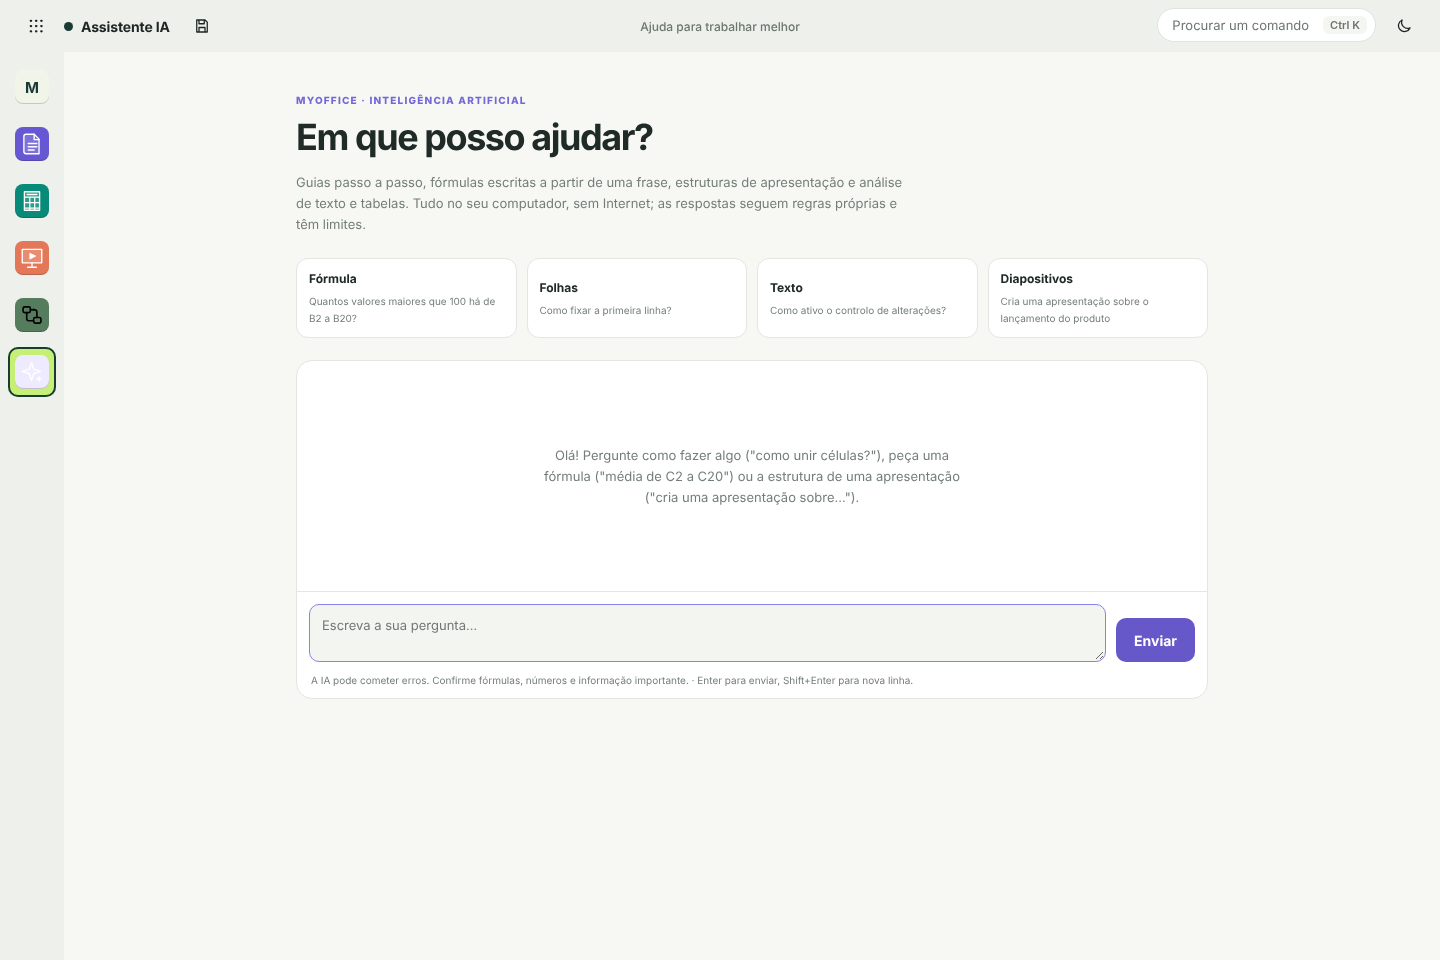
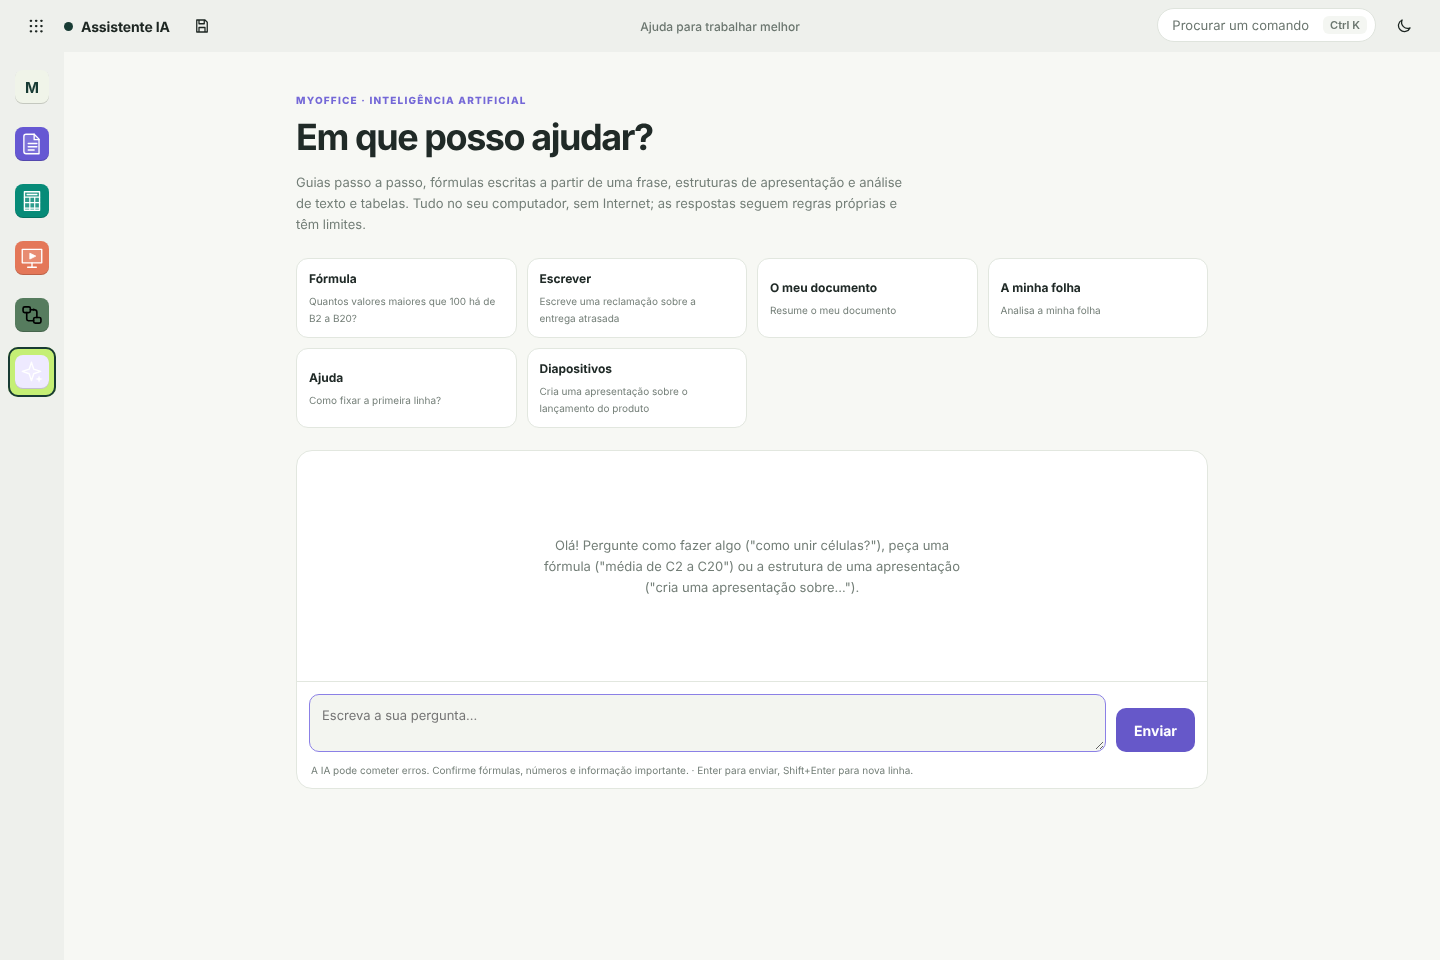
Assistant: document drafts, follow-up questions, insert actions and context from the open document and sheet
Also fixes a stray control character that broke the follow-up check.

Claude-Session: https://claude.ai/code/session_01JhikhFVXn8gHkb43DhDLf6

diff --git a/src/js/assistant.js b/src/js/assistant.js
@@ -492,10 +492,50 @@
     return null;
   }
 
+  // ---------- Rascunhos de documentos ----------
+
+  // [palavras-chave, título, parágrafos]. {tema} é substituído pelo assunto indicado no pedido.
+  const DRAFTS = [
+    [['reclamacao', 'queixa', 'reclamar'], 'Reclamação', ['[Nome]\n[Morada]\n[Código postal e localidade]', '[Entidade]\n[Morada da entidade]', '[Localidade], [data]', 'Assunto: Reclamação sobre {tema}', 'Exmos. Senhores,', 'Venho por este meio apresentar reclamação sobre {tema}. No dia [data], [descreva o que aconteceu, com factos concretos: o que foi contratado ou comprado, o que correu mal e os contactos já feitos].', 'Esta situação causou-me [prejuízo ou incómodo]. Assim, solicito [o que pretende: reparação, substituição, reembolso ou resposta] no prazo de [15] dias úteis.', 'Junto em anexo [fatura, fotografias ou outros documentos].', 'Com os melhores cumprimentos,', '[Nome]']],
+    [['ferias', 'pedido', 'requerimento', 'solicitar', 'declaracao'], 'Pedido', ['[Nome]\n[Função ou número]', 'Exmo(a). Senhor(a) [Nome e cargo],', 'Assunto: Pedido de {tema}', 'Venho por este meio solicitar {tema}, [indique datas, quantidades ou outros pormenores].', '[Explique brevemente o motivo, se for útil.]', 'Fico disponível para qualquer esclarecimento.', 'Com os melhores cumprimentos,', '[Nome]', '[Localidade], [data]']],
+    [['ata', 'reuniao'], 'Ata de reunião', ['Ata: {tema}', 'Data: [data] · Hora: [início]–[fim] · Local: [local ou videochamada]', 'Presentes: [nomes]\nAusentes: [nomes]', 'Ordem de trabalhos:\n1. [Ponto 1]\n2. [Ponto 2]\n3. Outros assuntos', 'Resumo da discussão:\n[Pontos principais de cada tema, em frases curtas.]', 'Decisões:\n• [Decisão] — responsável: [nome], prazo: [data]', 'Próxima reunião: [data e hora]']],
+    [['convite', 'convidar', 'evento', 'festa'], 'Convite', ['Convite: {tema}', 'Temos o prazer de o(a) convidar para {tema}, que terá lugar no dia [data], às [hora], em [local].', '[Uma ou duas frases sobre o programa ou o motivo do evento.]', 'Agradecemos a confirmação da presença até [data], através de [contacto].', 'Contamos consigo!', '[Nome ou organização]']],
+    [['agradecimento', 'agradecer', 'obrigado'], 'Agradecimento', ['Caro(a) [Nome],', 'Quero agradecer-lhe {tema}. [Diga concretamente o que fez a diferença e porquê.]', '[Uma frase sobre o impacto ou sobre o futuro.]', 'Muito obrigado(a),', '[Nome]']],
+    [['email', 'mail', 'mensagem'], 'Email', ['Assunto: {tema}', 'Olá [Nome],', '[Primeira frase: o motivo do email, sobre {tema}.]', '[Pormenores necessários, em dois ou três pontos curtos.]', '[O que precisa da outra pessoa e até quando.]', 'Obrigado(a),\n[Nome]']],
+    [['carta', 'oficio'], 'Carta formal', ['[Nome]\n[Morada]', '[Destinatário]\n[Morada]', '[Localidade], [data]', 'Assunto: {tema}', 'Exmo(a). Senhor(a),', '[Primeiro parágrafo: o motivo da carta, sobre {tema}.]', '[Segundo parágrafo: os pormenores e os factos relevantes.]', '[Último parágrafo: o que pede ou propõe e como pode ser contactado(a).]', 'Com os melhores cumprimentos,', '[Nome]']],
+    [['relatorio', 'informe'], 'Relatório', ['Relatório: {tema}', 'Resumo\n[A conclusão principal em duas ou três frases.]', 'Contexto\n[Porque foi feito este relatório e que período ou área cobre.]', 'Resultados\n[Dados principais, com números e comparação com o objetivo.]', 'Análise\n[O que explica os resultados.]', 'Recomendações\n[Ações propostas, com responsável e prazo.]']]
+  ].map(([keys, title, paragraphs]) => ({ keys, title, paragraphs }));
+
+  function draftFor(question) {
+    const q = plain(question);
+    if (!/\b(escreve|escrever|redige|redigir|rascunho|modelo|minuta|ajuda-me a escrever|preciso de uma?|faz(?:-me)? uma?|cria(?:-me)? uma?)\b/.test(q)) return null;
+    // O tipo de documento é a palavra-chave que aparece primeiro ("email sobre a reunião" é um email).
+    let draft = null;
+    let at = Infinity;
+    for (const d of DRAFTS) for (const k of d.keys) { const i = q.indexOf(k); if (i >= 0 && i < at) { at = i; draft = d; } }
+    if (!draft) return null;
+    // Assunto: o que vem depois de "sobre"; senão, o que vem depois do tipo de documento.
+    const about = question.match(/\b(?:sobre|acerca de|a pedir)\s+(.+)$/i);
+    const after = plain(question).slice(at).replace(/^\S+/, '');
+    const rest = about ? about[1] : question.slice(question.length - after.length).replace(/^\s*(?:de|da|do|para|ao|à|a|com)\s+/i, '').replace(/^(?:um|uma|o|a|os|as)\s+/i, '');
+    const topic = stripEnd(rest.replace(/[?!…]+$/, '')).slice(0, 120) || '[assunto]';
+    const filled = draft.paragraphs.map((p) => p.replace(/\{tema\}/g, topic));
+    const esc = (t) => t.replace(/&/g, '&amp;').replace(/</g, '&lt;').replace(/>/g, '&gt;');
+    const html = filled.map((p, i) => (i === 0 && /^(Relatório|Ata|Convite):/.test(p) ? `<h1>${esc(p)}</h1>` : `<p>${esc(p).replace(/\n/g, '<br>')}</p>`)).join('');
+    return { answer: `${draft.title} — rascunho pronto a completar (substitua o que está entre [ ]):\n\n${filled.join('\n\n')}`, action: { kind: 'draft', label: 'Inserir no Texto', html } };
+  }
+
   function chat(content, searchDocs) {
     const messages = [...String(content || '').matchAll(/(?:^|\n\n)Utilizador:\s*([\s\S]*?)(?=\n\n(?:Assistente|Utilizador):|$)/g)];
-    const question = (messages.length ? messages[messages.length - 1][1] : content).trim();
+    let question = (messages.length ? messages[messages.length - 1][1] : content).trim();
+    // Pergunta de seguimento ("e a média?"): reaproveita o intervalo da pergunta anterior.
+    const previous = messages.length > 1 ? messages[messages.length - 2][1].trim() : '';
+    if (previous && words(question).length <= 5 && /^(e|agora|e se|e o|e a)\b/i.test(question) && !rangeIn(question) && rangeIn(previous)) {
+      question = `${question} de ${rangeIn(previous)}`;
+    }
     const query = plain(question);
+    const draft = draftFor(question);
+    if (draft) return draft;
     if (/^(ola|bom dia|boa tarde|boa noite|oi|obrigad[oa])\b/.test(query) && words(query).length <= 4) {
       return { answer: /obrigad/.test(query) ? 'De nada! Se precisar de mais alguma coisa, é só perguntar.' : 'Olá! Pergunte-me como fazer algo no MyOffice, peça uma fórmula (por exemplo "soma de B2 a B10") ou a estrutura de uma apresentação.' };
     }
@@ -503,7 +543,7 @@
       const built = buildFormula(question);
       if (built) {
         const where = rangeIn(question) ? '' : ' Substitua o intervalo pelo das suas células.';
-        return { answer: `Fórmula: ${built.formula}\n\nO que faz: ${built.explain}${where}\n\nEscreva-a numa célula de Folhas e carregue em Enter. Os nomes em inglês (SUM, AVERAGE…) também funcionam.` };
+        return { answer: `Fórmula: ${built.formula}\n\nO que faz: ${built.explain}${where}\n\nPode inseri-la na célula ativa das Folhas com o botão abaixo. Os nomes em inglês (SUM, AVERAGE…) também funcionam.`, action: { kind: 'formula', label: 'Inserir na célula ativa', value: built.formula } };
       }
     }
     if (/\b(apresentacao|diapositivos|slides)\b/.test(query)) {

diff --git a/src/js/assistant-app.js b/src/js/assistant-app.js
@@ -7,11 +7,28 @@
   let root, messages, input, sendButton, busy = false;
   const history = [];
 
-  function addMessage(role, text, extra) {
+  // Ações que a resposta pode trazer: inserir uma fórmula nas Folhas ou um rascunho no Texto.
+  function actionButton(action) {
+    const run = () => {
+      if (action.kind === 'formula' && MO.modules.sheets.assist) {
+        MO.showView('sheets');
+        MO.modules.sheets.assist.put(action.value);
+        MO.toast(`Fórmula inserida em ${MO.modules.sheets.assist.activeAddr()}.`);
+      } else if (action.kind === 'draft' && MO.modules.writer.assist) {
+        MO.showView('writer');
+        MO.modules.writer.assist.insert(action.html);
+        MO.toast('Rascunho inserido no Texto.');
+      }
+    };
+    return h('button', { type: 'button', class: 'btn mo-assistant-action', onclick: run }, action.label);
+  }
+
+  function addMessage(role, text, extra, action) {
     if (!messages) return;
     const empty = messages.querySelector('.mo-assistant-empty');
     if (empty) empty.remove();
     const item = h('article', { class: 'mo-assistant-message ' + role }, text);
+    if (action && (action.kind === 'formula' || action.kind === 'draft')) item.append(h('div', { class: 'mo-assistant-actions' }, actionButton(action)));
     if (extra) item.classList.add(extra);
     messages.append(item);
     messages.scrollTop = messages.scrollHeight;
@@ -33,14 +50,25 @@
     setBusy(true);
     try {
       const api = window.api && window.api.ai;
-      const request = { module: 'assistant', task: 'chat', content: history.slice(-6).map((m) => (m.role === 'user' ? 'Utilizador: ' : 'Assistente: ') + m.content).join('\n\n') };
+      let request = { module: 'assistant', task: 'chat', content: history.slice(-6).map((m) => (m.role === 'user' ? 'Utilizador: ' : 'Assistente: ') + m.content).join('\n\n') };
+      // Pedidos sobre o documento ou a folha abertos usam o conteúdo real.
+      const q = prompt.toLocaleLowerCase('pt-PT').normalize('NFD').replace(/\p{M}/gu, '');
+      if (/\b(resum|rev|analis|melhor|corrig)\w*\b.*\b(documento|texto)\b|\b(meu|este|o) (documento|texto)\b/.test(q)) {
+        const text = MO.modules.writer.assist ? MO.modules.writer.assist.text().trim() : '';
+        if (!text) throw new Error('O documento do Texto está vazio. Escreva ou abra um documento e volte a perguntar.');
+        request = { module: 'writer', task: 'review', content: text.slice(0, 6000) };
+      } else if (/\b(analis|resum|estatistic|tendencia)\w*\b.*\b(folha|tabela|dados|livro)\b|\b(minha|esta|a) (folha|tabela)\b/.test(q)) {
+        const table = MO.modules.sheets.assist ? MO.modules.sheets.assist.table() : '';
+        if (!table) throw new Error('A folha está vazia. Abra ou escreva dados em Folhas e volte a perguntar.');
+        request = { module: 'sheets', task: 'analyse', content: table };
+      }
       const response = api
         ? await api.assist(request)
         : MO.Assistant.assist(request);
       if (response.error) throw new Error(response.error);
       const answer = response.answer || 'Não consegui formular uma resposta. Tente novamente.';
       history.push({ role: 'assistant', content: answer });
-      addMessage('ai', answer);
+      addMessage('ai', answer, null, response.action);
     } catch (error) {
       addMessage('ai', error.message || 'Ocorreu um erro ao contactar a IA.', 'error');
     } finally {
@@ -62,8 +90,10 @@
     });
     const shortcuts = [
       ['Fórmula', 'Quantos valores maiores que 100 há de B2 a B20?'],
-      ['Folhas', 'Como fixar a primeira linha?'],
-      ['Texto', 'Como ativo o controlo de alterações?'],
+      ['Escrever', 'Escreve uma reclamação sobre a entrega atrasada'],
+      ['O meu documento', 'Resume o meu documento'],
+      ['A minha folha', 'Analisa a minha folha'],
+      ['Ajuda', 'Como fixar a primeira linha?'],
       ['Diapositivos', 'Cria uma apresentação sobre o lançamento do produto']
     ];
     root = h('main', { class: 'mo-assistant' },

diff --git a/test/assistant.test.js b/test/assistant.test.js
@@ -70,3 +70,15 @@ const table = A.assist({ module: 'sheets', task: 'analyse', content: 'Mês | Ven
 assert.ok(table.includes('máximo 150 (Mar)') && table.includes('subiu 50%'));
 console.log('Testes da conversa do assistente passaram.');
 assert.ok(ask('o que ainda não faz?').startsWith('O que o MyOffice ainda não faz'));
+
+// Rascunhos, seguimento e ações
+const chatTo = (c) => A.assist({ module: 'assistant', task: 'chat', content: c });
+const draft = chatTo('Utilizador: escreve uma reclamação sobre a fatura da luz');
+assert.equal(draft.action.kind, 'draft');
+assert.ok(draft.answer.includes('Assunto: Reclamação sobre a fatura da luz'));
+assert.ok(draft.action.html.startsWith('<p>'));
+assert.ok(chatTo('Utilizador: preciso de um pedido de férias').answer.includes('Assunto: Pedido de férias'));
+assert.ok(chatTo('Utilizador: escreve um email para a equipa sobre a reunião').answer.startsWith('Email'));
+const follow = chatTo('Utilizador: soma de B2 a B10\n\nAssistente: Fórmula: =SOMA(B2:B10)\n\nUtilizador: e a média?');
+assert.deepEqual(follow.action, { kind: 'formula', label: 'Inserir na célula ativa', value: '=MÉDIA(B2:B10)' });
+console.log('Testes de rascunhos e seguimento passaram.');

diff --git a/src/js/sheets.js b/src/js/sheets.js
@@ -1773,6 +1773,27 @@
       return { node: table, page: 'A4 landscape', margin: '12mm' };
     },
 
+    // Usado pelo Assistente: célula ativa, escrever nela e ler a área com dados.
+    assist: {
+      activeAddr: () => F.addr(cur.r, cur.c),
+      put(raw) {
+        if (editing) stopEdit(true);
+        mutate(() => setRaw(F.addr(cur.r, cur.c), String(raw).slice(0, MAX_CELL_CHARS)));
+      },
+      table() {
+        const used = Object.keys(cells).filter((a) => cells[a] && cells[a].v !== '').map((a) => F.parseAddr(a)).filter(Boolean);
+        if (!used.length) return '';
+        const r1 = Math.min(Math.max(...used.map((p) => p.r)), 200);
+        const c1 = Math.min(Math.max(...used.map((p) => p.c)), 20);
+        const rows = [];
+        for (let r = 0; r <= r1; r++) {
+          const row = [];
+          for (let c = 0; c <= c1; c++) { const a = F.addr(r, c); row.push(F.format(values.get(a) ?? (cells[a] ? cells[a].v : ''))); }
+          if (row.some(Boolean)) rows.push(row.join(' | '));
+        }
+        return rows.join('\n').slice(0, 6000);
+      }
+    },
     show() {
       wrap.focus({ preventScroll: true });
     }

diff --git a/src/js/writer.js b/src/js/writer.js
@@ -804,6 +804,18 @@ hr.page-break { border: 0; margin: 0; break-after: page; }`;
       return { node, page: `${docPage.size === 'Letter' ? 'letter' : docPage.size} ${docPage.orient}`, margin: `${mv}mm ${mh}mm`, pageRule: '@bottom-right { content: counter(page) " / " counter(pages); font: 9pt Arial; color: #667085; }' };
     },
 
+    // Usado pelo Assistente: ler o texto do documento e inserir um rascunho no fim.
+    assist: {
+      text: () => (editor ? editor.innerText : ''),
+      insert(html) {
+        if (!editor) return;
+        const empty = !editor.innerText.trim();
+        const clean = MO.sanitizeHTML(html);
+        if (empty) editor.innerHTML = clean;
+        else editor.insertAdjacentHTML('beforeend', clean);
+        ctx.dirty();
+      }
+    },
     show() {
       editor.focus();
     }

diff --git a/src/css/app.css b/src/css/app.css
@@ -2064,3 +2064,7 @@ body:not([data-current="home"]) .rail-btn .app-tile { width: 34px; height: 34px;
 .rail-btn { color: var(--studio-ink); }
 .rail-btn:hover { background: var(--studio-soft); }
 #rail::before { color: var(--studio-muted); }
+/* Ações nas respostas do Assistente */
+.mo-assistant-actions { margin-top: 10px; white-space: normal; }
+.mo-assistant-action { background: var(--studio-ink, #183b34); color: #fff; border-color: transparent; }
+.mo-assistant-action:hover { filter: brightness(1.1); }

diff --git a/src/js/app.js b/src/js/app.js
@@ -49,6 +49,7 @@
     if (api) api.setDirty(ORDER.some((id) => docs[id].dirty));
   }
 
+  MO.showView = (id) => show(id);
   function show(id) {
     current = id;
     document.querySelectorAll('.view').forEach((view) => (view.hidden = view.id !== 'view-' + id));

diff --git a/README.md b/README.md
@@ -137,6 +137,9 @@ O Assistente funciona inteiramente no computador, sem Internet, contas nem desca
 
 - **Guias passo a passo** — pergunte "como unir células?", "como imprimo?" ou "como ativo o controlo de alterações?" e recebe os passos, com os nomes dos botões. Se a pergunta não tiver guia, procura na documentação e indica a secção.
 - **Fórmulas a partir de uma frase** — "soma de B2 a B10" dá `=SOMA(B2:B10)`; "quantos valores maiores que 100 na coluna C" dá `=CONTAR.SE(C2:C100;">100")`. Também média, máximo, mínimo, PROCV, SE, percentagens e arredondamentos.
+- **Rascunhos** — "escreve uma reclamação sobre a fatura da luz", "preciso de um pedido de férias", "faz um convite para o jantar de Natal": cartas, emails, reclamações, pedidos, atas, convites, agradecimentos e relatórios, com o assunto já preenchido. O botão **Inserir no Texto** coloca o rascunho no documento.
+- **Trabalha com o que tem aberto** — "resume o meu documento" e "analisa a minha folha" usam o conteúdo real do Texto e das Folhas. As fórmulas têm o botão **Inserir na célula ativa**.
+- **Perguntas de seguimento** — depois de "soma de B2 a B10", basta "e a média?".
 - **Texto** — resume o documento, assinala frases longas e termos repetidos e propõe versões mais diretas das frases ("É importante referir que a empresa cresceu" → "A empresa cresceu").
 - **Folhas** — para cada coluna numérica: total, média, máximo e mínimo com a linha correspondente, tendência do primeiro ao último valor e peso do maior valor no total.
 - **Diapositivos** — propõe uma estrutura de apresentação a partir do tema e sugere versões mais concisas dos diapositivos.
